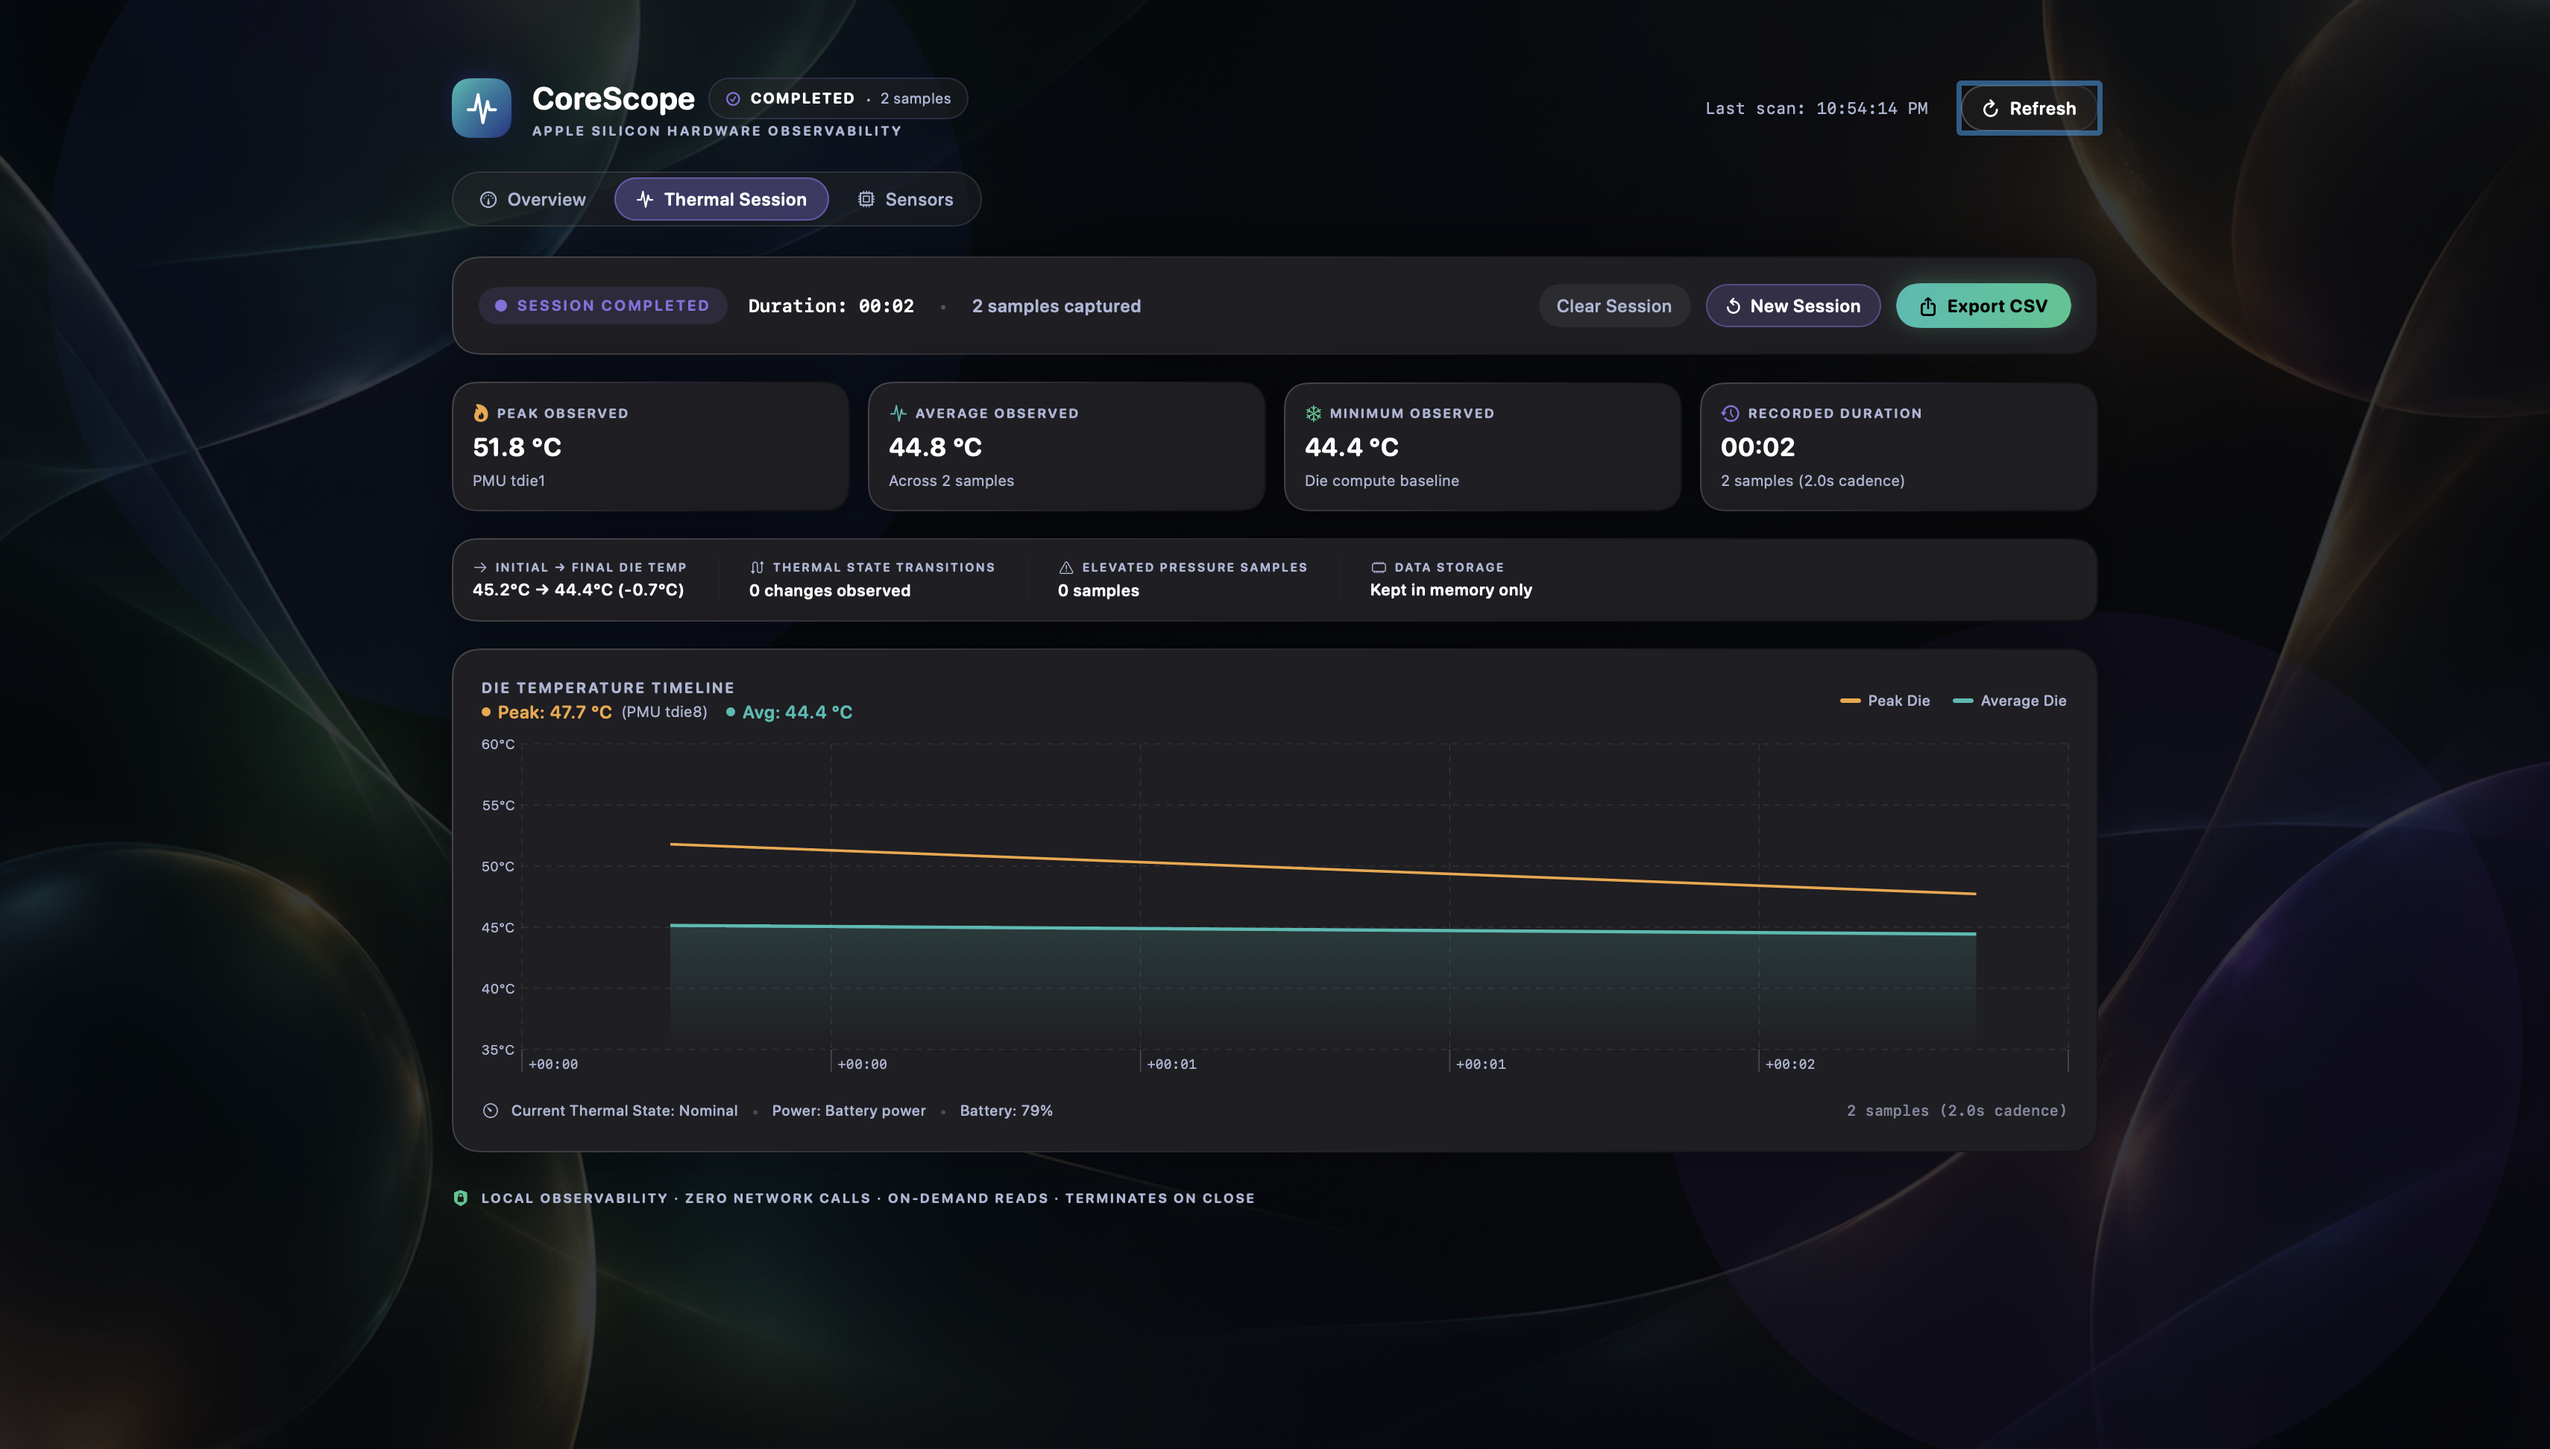
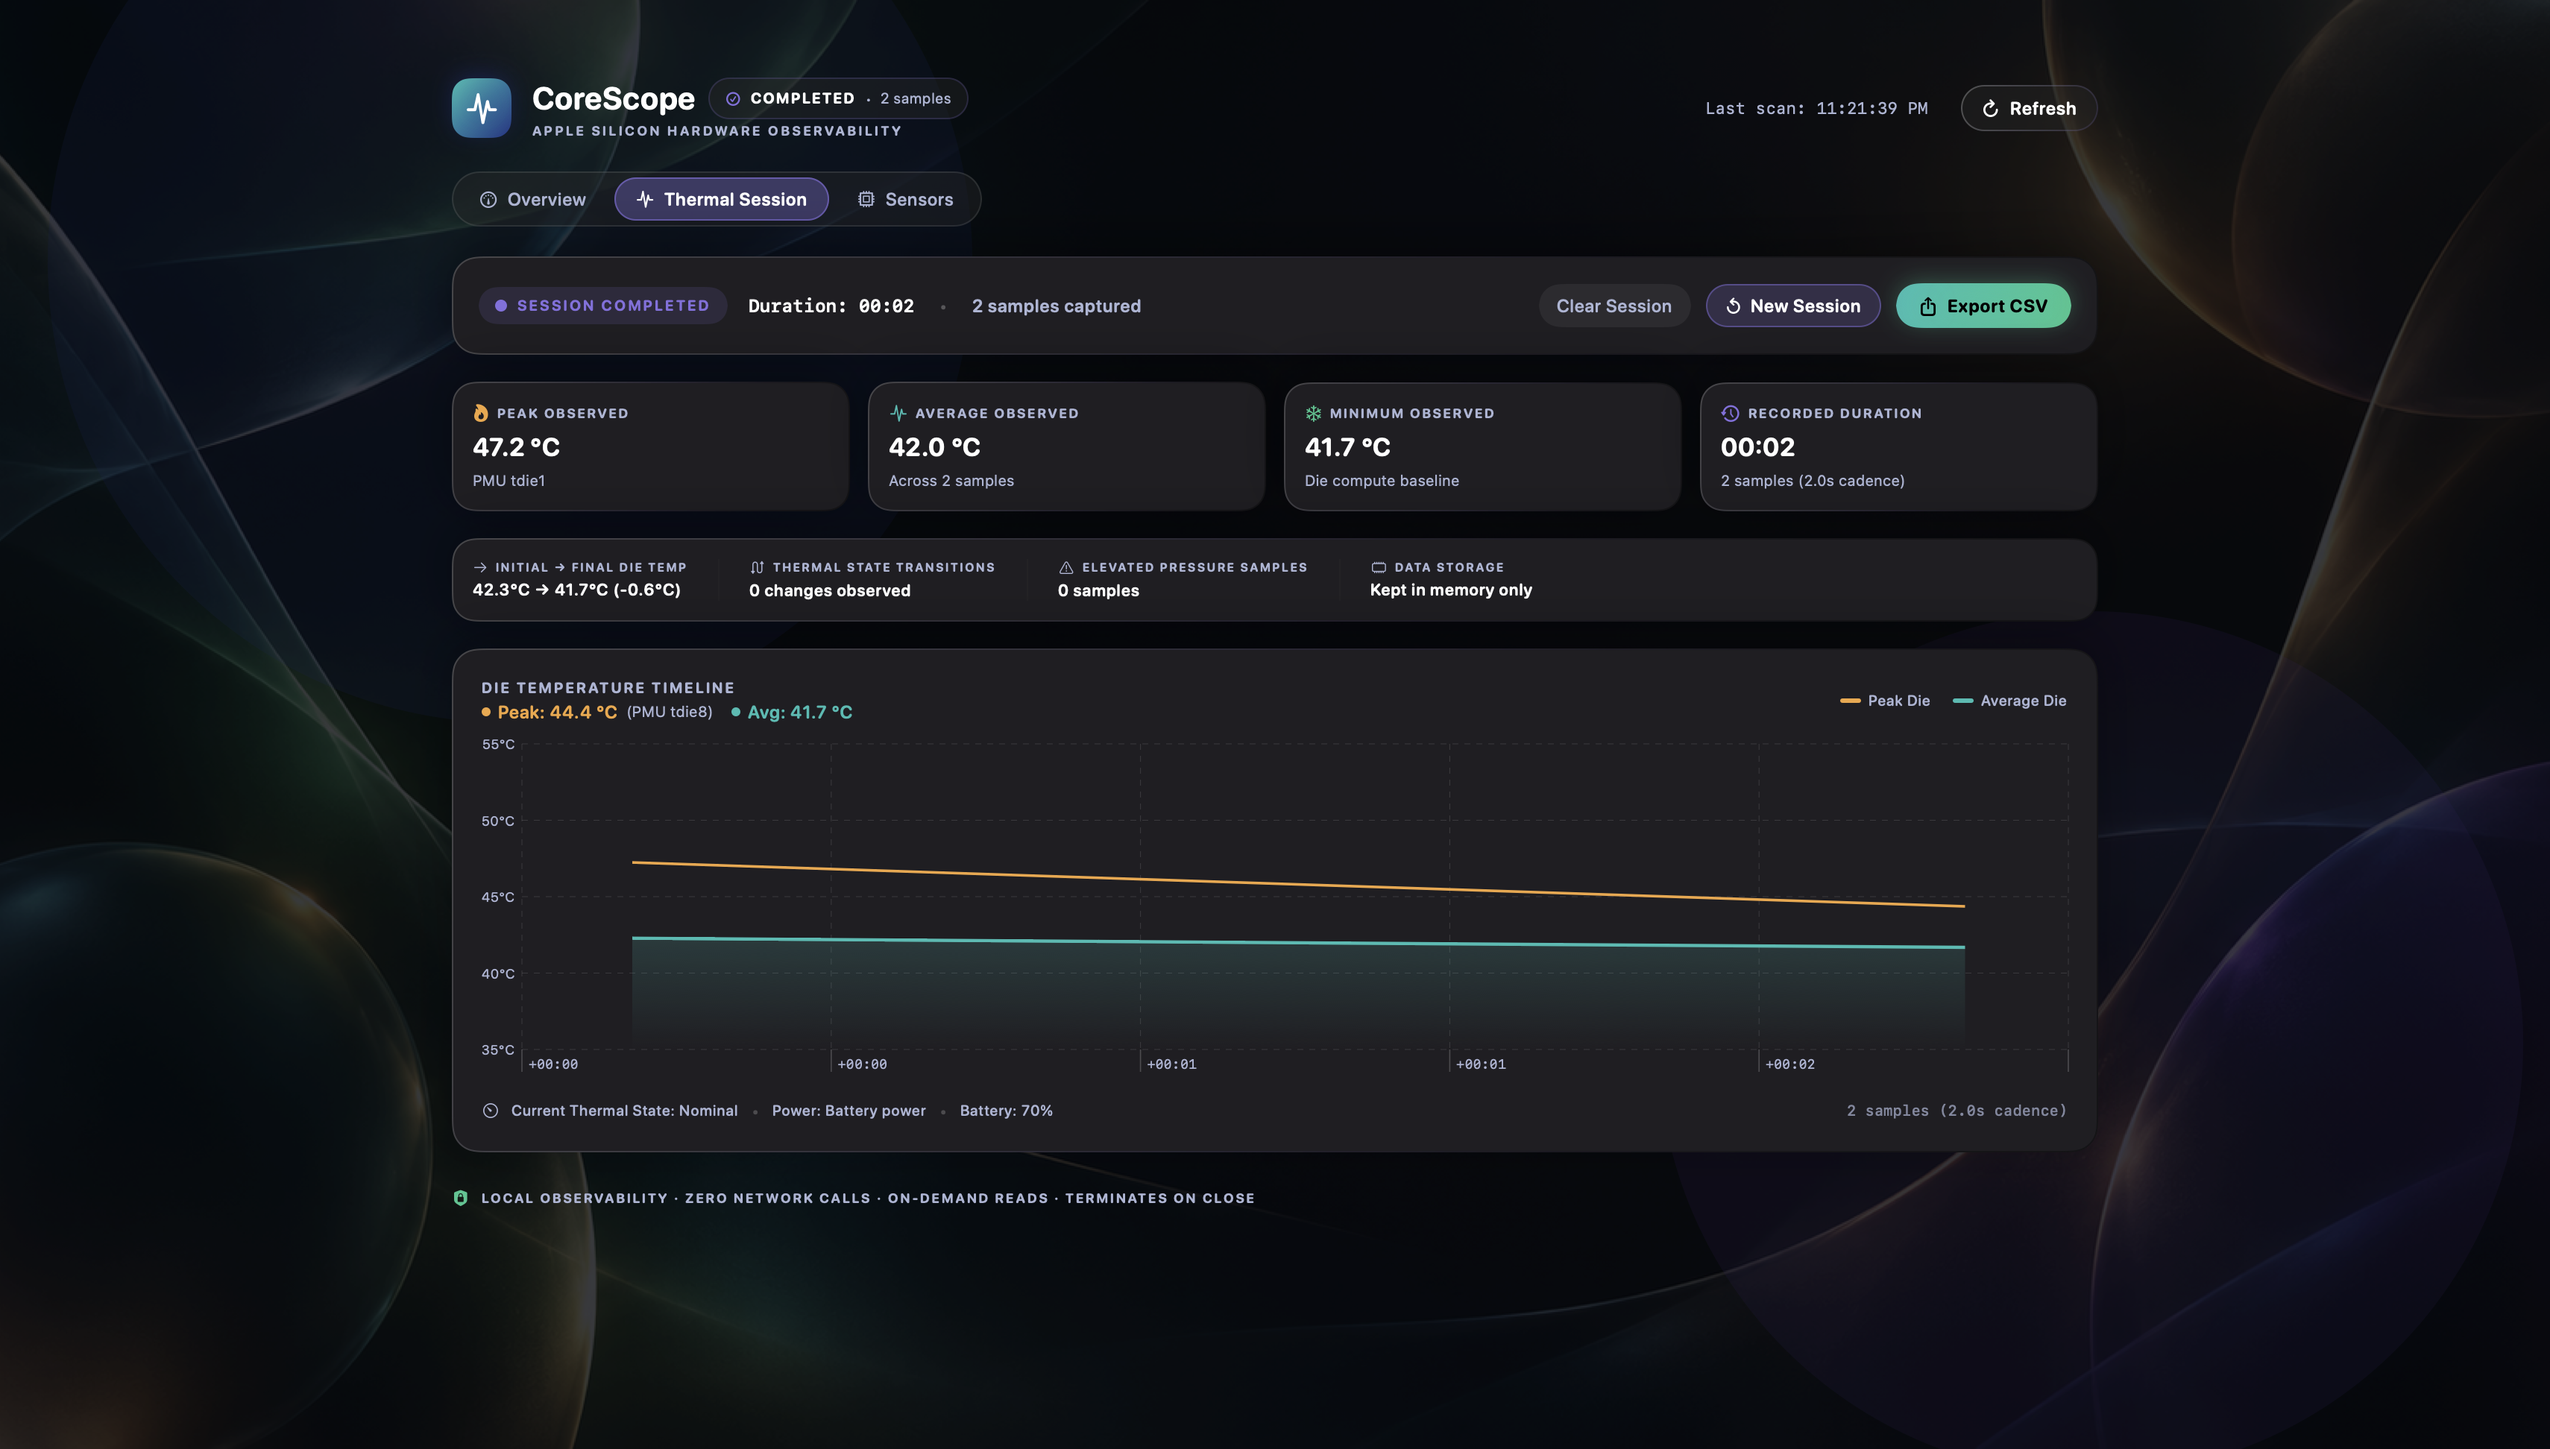
feat(session): add 30-second automated hardware acceptance test and update UI captures

diff --git a/Sources/CoreScope/CoreScopeApp.swift b/Sources/CoreScope/CoreScopeApp.swift
@@ -61,7 +61,7 @@ struct CoreScopeApp: App {
     }
 
     private var initialSectionForLaunch: DashboardSection {
-        if CommandLine.arguments.contains("--session") || CommandLine.arguments.contains("--session-idle") || CommandLine.arguments.contains("--session-completed") {
+        if CommandLine.arguments.contains("--session") || CommandLine.arguments.contains("--session-idle") || CommandLine.arguments.contains("--session-completed") || CommandLine.arguments.contains("--session-run-30s") {
             return .thermalSession
         } else if CommandLine.arguments.contains("--sensors") {
             return .sensors
@@ -74,7 +74,7 @@ struct CoreScopeApp: App {
             DashboardView(model: model, initialSection: initialSectionForLaunch)
                 .frame(minWidth: 840, minHeight: 620)
                 .onAppear {
-                    if CommandLine.arguments.contains("--capture") {
+                    if CommandLine.arguments.contains("--capture") || CommandLine.arguments.contains("--session-run-30s") {
                         captureSelfToScreenshots()
                     }
                 }
@@ -86,7 +86,89 @@ struct CoreScopeApp: App {
         .defaultSize(width: 960, height: 720)
     }
 
+    @MainActor
     private func captureSelfToScreenshots() {
+        if CommandLine.arguments.contains("--session-run-30s") {
+            print("==> Starting 30-second live Thermal Session on physical M4 hardware...")
+            model.session.startSession(duration: .seconds30)
+
+            Task { @MainActor in
+                var lastReportedCount = 0
+                while self.model.session.state == .running && self.model.session.elapsedSeconds < 31.0 {
+                    try? await Task.sleep(nanoseconds: 1_000_000_000)
+                    let samples = self.model.session.samples
+                    if samples.count > lastReportedCount {
+                        for i in lastReportedCount..<samples.count {
+                            let s = samples[i]
+                            let peakStr = s.peakDieTemp.map { String(format: "%.1f°C", $0) } ?? "n/a"
+                            let avgStr = s.averageDieTemp.map { String(format: "%.1f°C", $0) } ?? "n/a"
+                            let freqStr = s.pCoreFrequencyMHz.map { "\(Int($0)) MHz" } ?? "unavailable"
+                            print(String(format: "  Sample #%2d [+%4.1fs]: Peak=%@ (%@), Avg=%@, Channels=%d, Pressure=%@, P-Freq=%@, Battery=%d%%",
+                                         i + 1, s.elapsedSeconds, peakStr, s.peakDieSensorName ?? "n/a", avgStr, s.operatingChannelCount, s.thermalPressure.title, freqStr, s.batteryPercent ?? 0))
+                        }
+                        lastReportedCount = samples.count
+                    }
+                }
+
+                if self.model.session.state == .running {
+                    self.model.session.stopSession()
+                }
+
+                print("\n==> Thermal Session successfully completed!")
+                if let summary = self.model.session.lastSummary {
+                    let peakStr = summary.peakObservedTemp.map { String(format: "%.1f °C", $0) } ?? "n/a"
+                    let peakSensor = summary.peakObservedSensor ?? "n/a"
+                    let avgStr = summary.averageObservedTemp.map { String(format: "%.1f °C", $0) } ?? "n/a"
+                    let minStr = summary.minObservedTemp.map { String(format: "%.1f °C", $0) } ?? "n/a"
+                    let initStr = summary.initialTemp.map { String(format: "%.1f °C", $0) } ?? "n/a"
+                    let finalStr = summary.finalTemp.map { String(format: "%.1f °C", $0) } ?? "n/a"
+                    let netChange: String
+                    if let initT = summary.initialTemp, let finT = summary.finalTemp {
+                        let diff = finT - initT
+                        netChange = String(format: "%+.1f °C", diff)
+                    } else {
+                        netChange = "n/a"
+                    }
+
+                    print("Session Summary:")
+                    print("  - Samples Collected: \(summary.sampleCount)")
+                    print("  - Total Duration: \(String(format: "%.1f", summary.totalDuration)) seconds")
+                    print("  - Peak Observed: \(peakStr) (\(peakSensor))")
+                    print("  - Average Observed: \(avgStr)")
+                    print("  - Minimum Observed: \(minStr)")
+                    print("  - Initial -> Final Temp: \(initStr) -> \(finalStr) (\(netChange))")
+                    print("  - Thermal State Transitions: \(summary.thermalStateTransitions)")
+                } else {
+                    print("ERROR: Summary was nil upon completion!")
+                    exit(1)
+                }
+
+                // Check that sampling has stopped (verify sample count does not increase)
+                let finalSampleCount = self.model.session.samples.count
+                print("\n==> Verifying sampling stops after session completion...")
+                try? await Task.sleep(nanoseconds: 3_000_000_000)
+                let postCount = self.model.session.samples.count
+                if postCount == finalSampleCount {
+                    print("==> Confirmed: zero additional samples collected after stop (\(postCount) == \(finalSampleCount)).")
+                } else {
+                    print("ERROR: Samples continued to be collected after session stopped! (\(postCount) > \(finalSampleCount))")
+                    exit(1)
+                }
+
+                // Close window to verify applicationShouldTerminateAfterLastWindowClosed
+                print("==> Closing final window to verify CoreScope termination...")
+                guard let window = NSApplication.shared.windows.first(where: { $0.isVisible }) else {
+                    print("No visible window found")
+                    exit(1)
+                }
+                window.performClose(nil)
+                try? await Task.sleep(nanoseconds: 1_000_000_000)
+                print("==> Window closed successfully. Terminating process.")
+                exit(0)
+            }
+            return
+        }
+
         let isSessionIdleMode = CommandLine.arguments.contains("--session-idle")
         let isSessionCompletedMode = CommandLine.arguments.contains("--session-completed")
         let isSessionMode = CommandLine.arguments.contains("--session")
